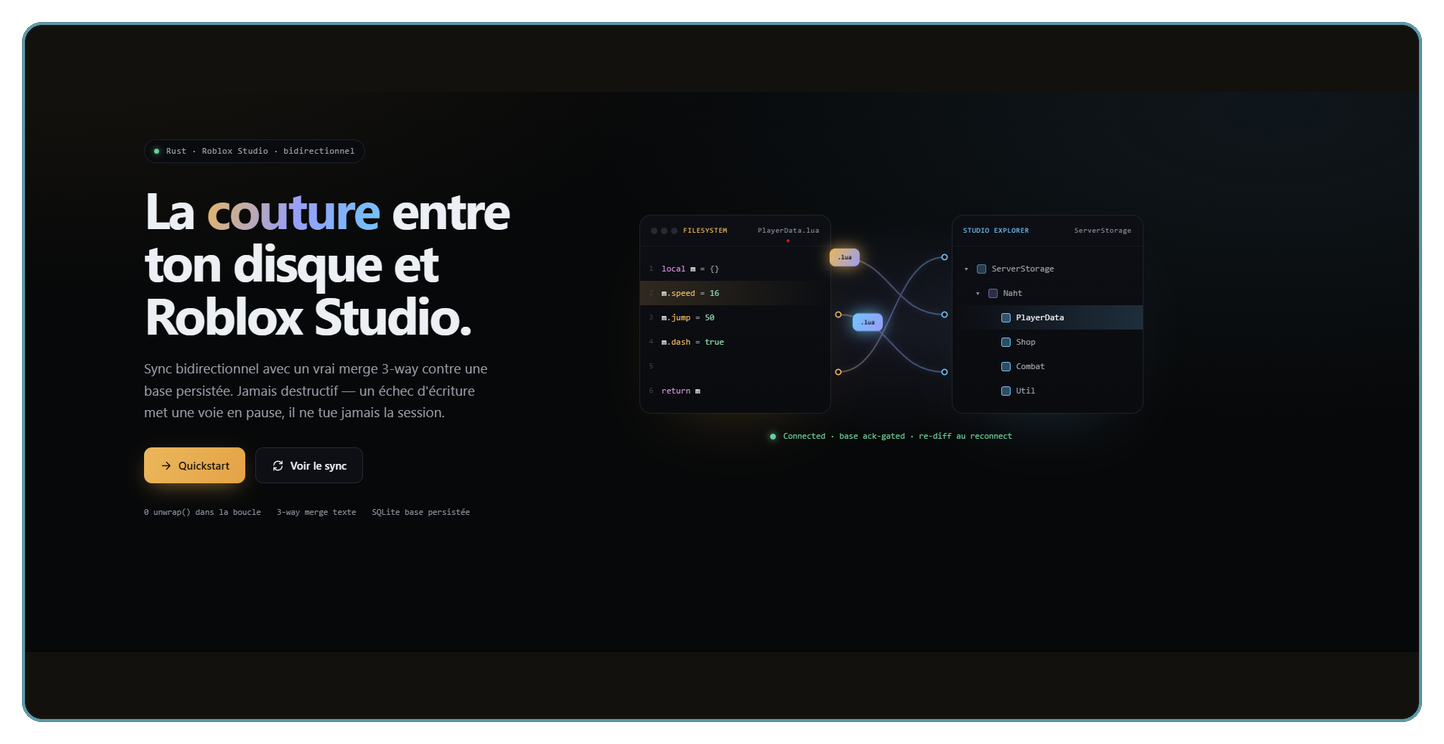
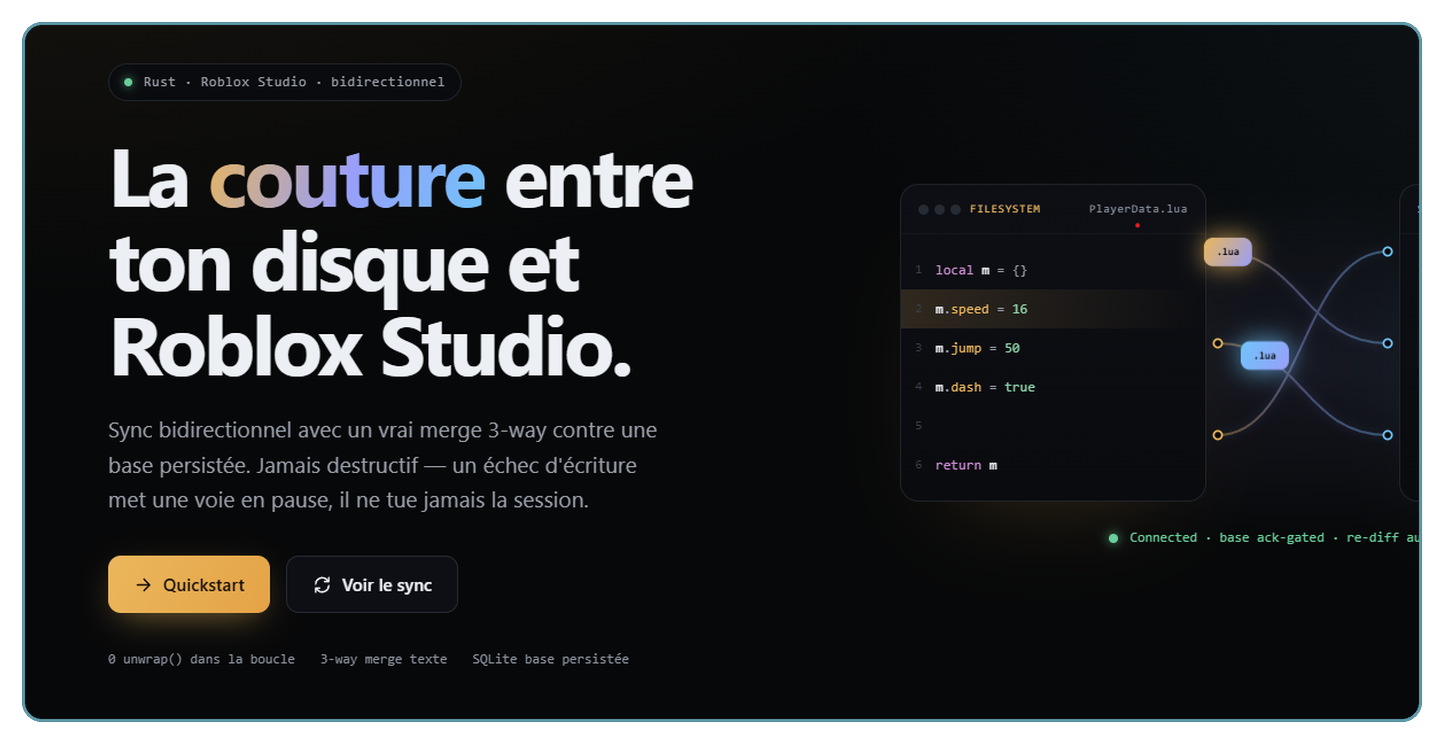
style: zoom naht screenshot to fill frame (no letterbox bands)
Cover-crop the naht hero (left-biased to keep the title) so it fills the
2:1 frame without dark bands; bump cache-buster to v=3.

Claude-Session: https://claude.ai/code/session_01KRj4cH5qqrxAjeZRVMtCXV

diff --git a/README.md b/README.md
@@ -38,7 +38,7 @@
 </div>
 
 <p align="center">
-  <a href="https://github.com/vskstudio/naht"><img src="assets/project-naht.png?v=2" alt="naht — Sync bidirectionnel entre ton disque et Roblox Studio (Rust)" width="98%" /></a>
+  <a href="https://github.com/vskstudio/naht"><img src="assets/project-naht.png?v=3" alt="naht — Sync bidirectionnel entre ton disque et Roblox Studio (Rust)" width="98%" /></a>
 </p>
 
 <p align="center">
